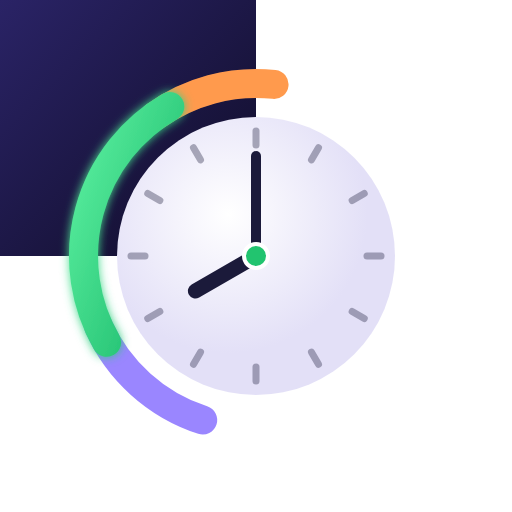
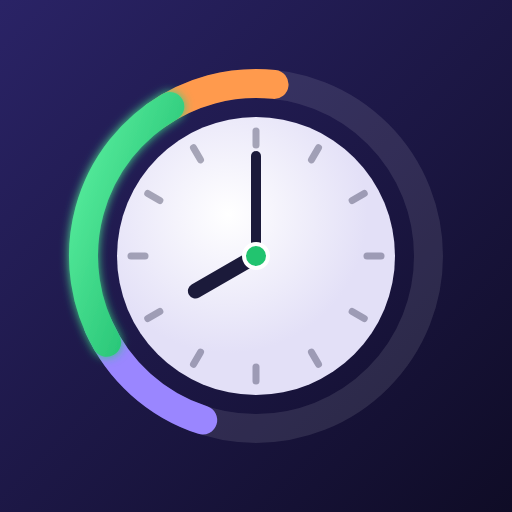
App-Symbol: Hintergrund wieder vollflächig
Beim Verkleinern wurde auch die Größe des Hintergrund-Rechtecks ersetzt,
dadurch war nur ein kleines Quadrat oben links dunkel.

Claude-Session: https://claude.ai/code/session_011HbGNNoqfTa2FwnnhQ3DBg

diff --git a/sw.js b/sw.js
@@ -1,7 +1,7 @@
 /* Zockplan – Service Worker: App-Dateien offline verfügbar halten.
    Eigene Dateien: erst Netz, sonst Zwischenspeicher (damit Änderungen sofort ankommen).
    Firebase-Bibliotheken: aus dem Zwischenspeicher (ändern sich nicht). */
-const CACHE = 'zockplan-v4';
+const CACHE = 'zockplan-v5';
 const SHELL = ['./', './index.html', './app.css', './app.js', './shim.js', './config.js', './pwa.js', './manifest.webmanifest', './icons/icon-192.png', './icons/icon-512.png'];
 
 self.addEventListener('install', e => { e.waitUntil(caches.open(CACHE).then(c => c.addAll(SHELL)).then(() => self.skipWaiting())); });

diff --git a/index.html b/index.html
@@ -13,8 +13,8 @@
 <meta name="apple-mobile-web-app-title" content="Zockplan">
 <link rel="manifest" href="./manifest.webmanifest">
 <link rel="icon" href="./icons/icon.svg" type="image/svg+xml">
-<link rel="icon" href="./icons/favicon-32.png" type="image/png" sizes="32x32">
-<link rel="apple-touch-icon" href="./icons/apple-touch-icon.png">
+<link rel="icon" href="./icons/favicon-32.png?v=2" type="image/png" sizes="32x32">
+<link rel="apple-touch-icon" href="./icons/apple-touch-icon.png?v=2">
 <link rel="stylesheet" href="./app.css">
 </head>
 <body>

diff --git a/pwa.js b/pwa.js
@@ -1,7 +1,7 @@
 /* Zockplan – App-Funktionen: Offline-Zwischenspeicher, Hinweis zum Installieren,
    Offline-Anzeige und Hinweis auf eine neue Version.
    VERSION muss zu version.json passen (bei jeder Änderung beide erhöhen). */
-const VERSION = '2026-10-22.1';
+const VERSION = '2026-10-22.2';
 if ('serviceWorker' in navigator) navigator.serviceWorker.register('./sw.js').catch(() => {});
 
 const standalone = window.matchMedia('(display-mode: standalone)').matches || window.navigator.standalone === true;
